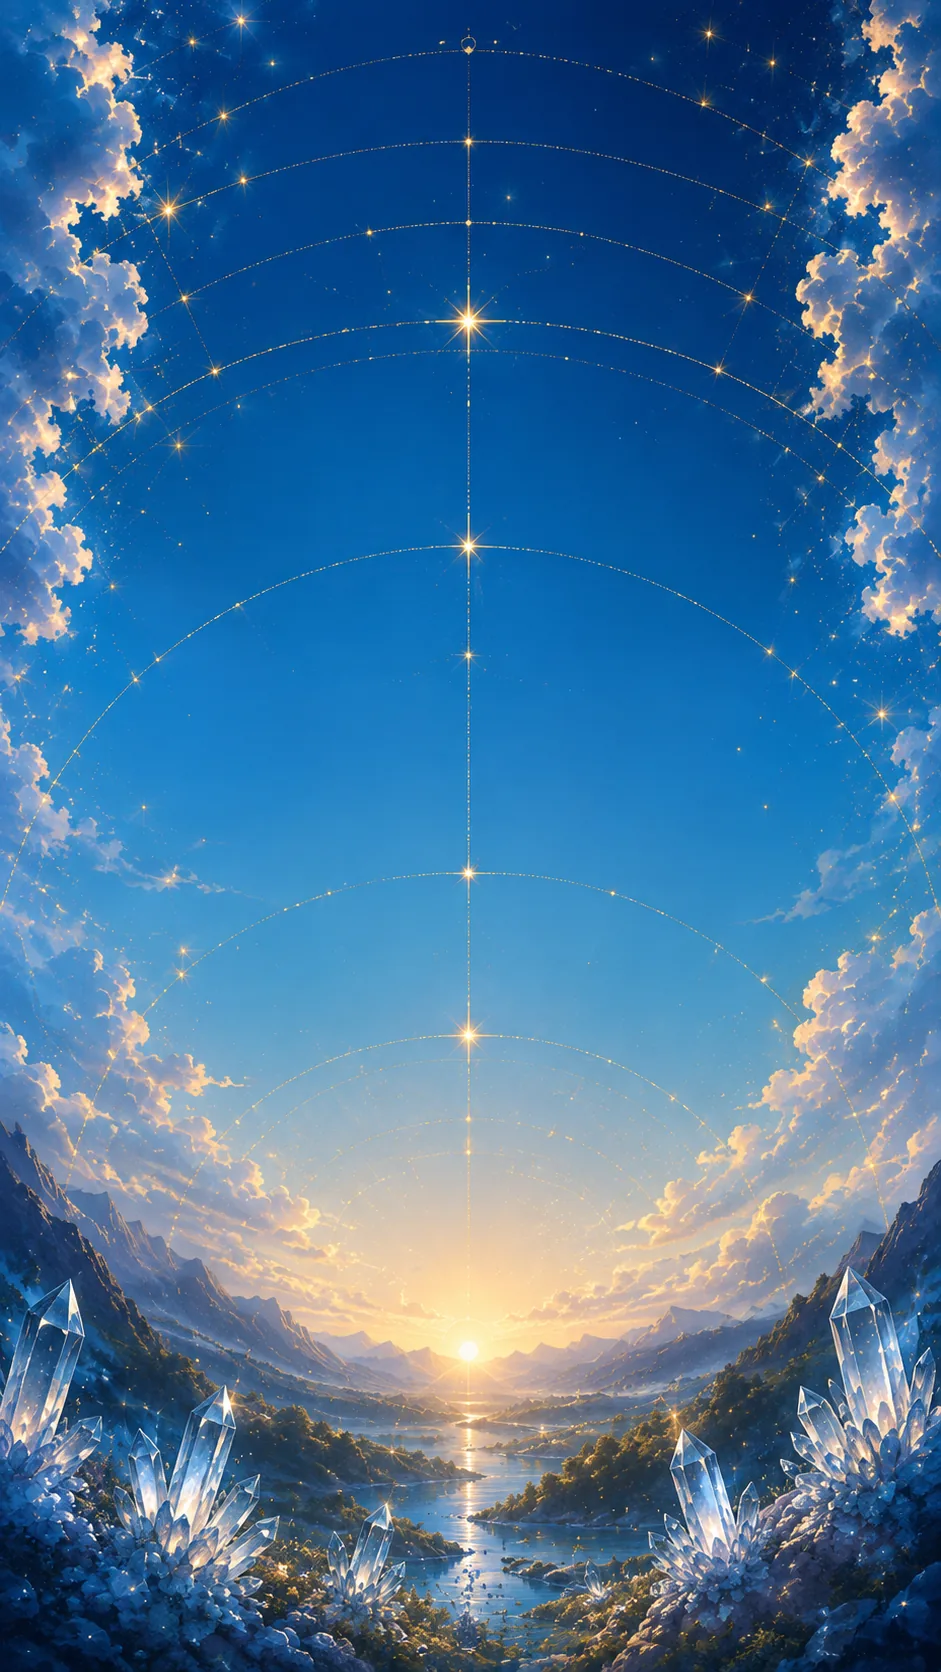
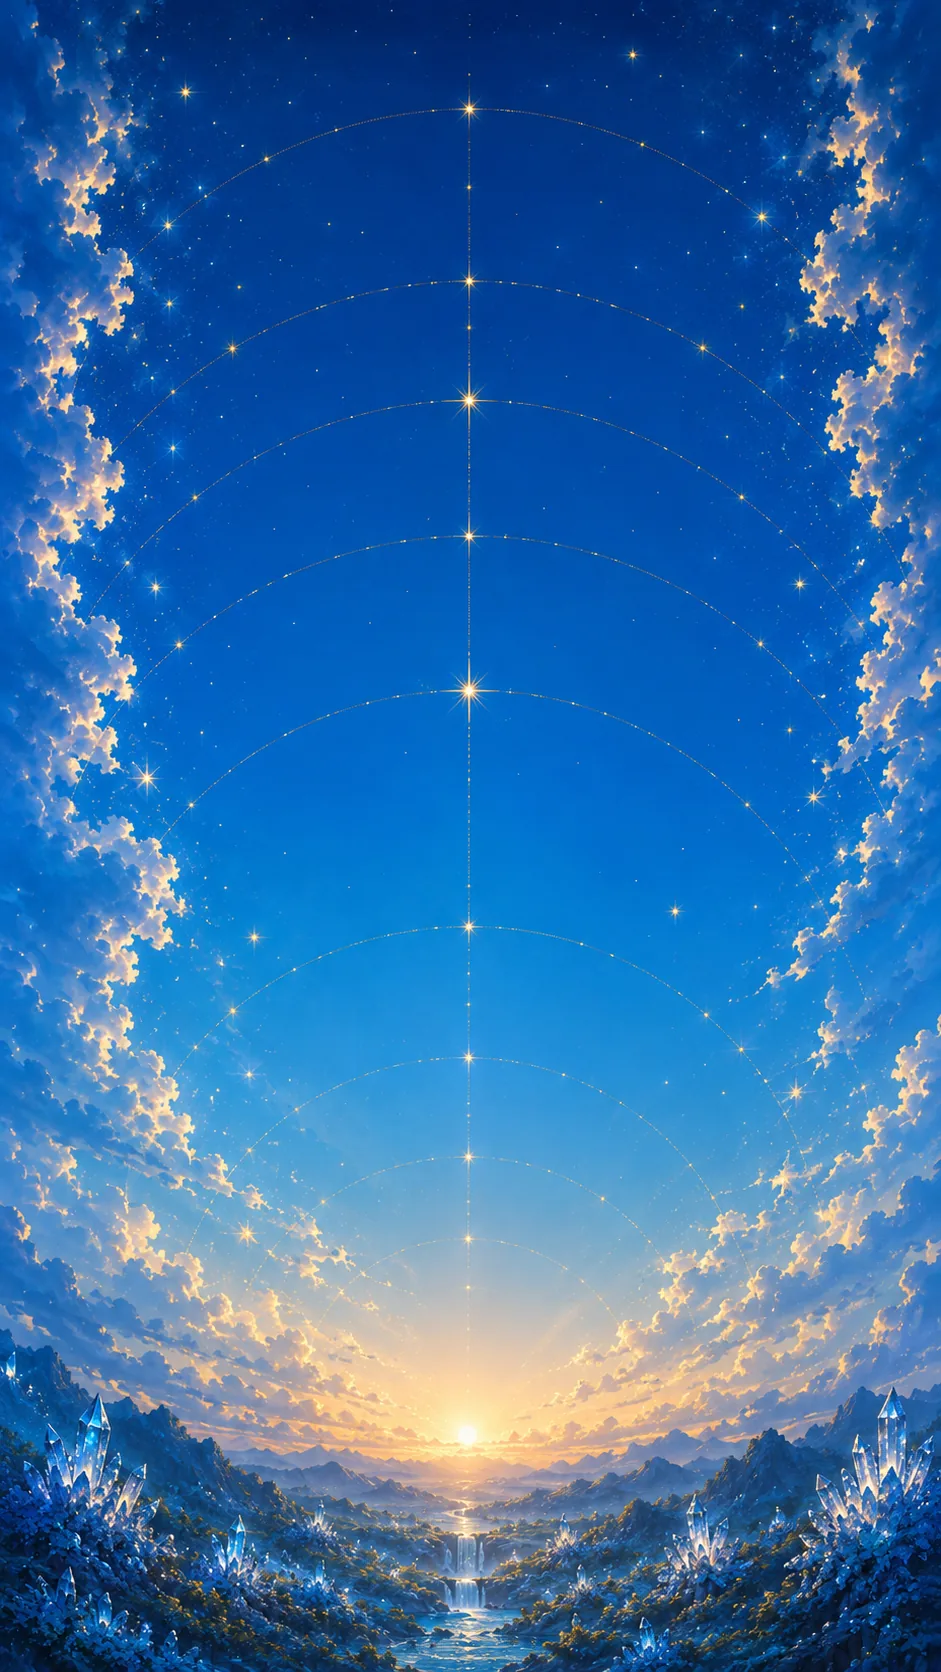
Denní pozadí: finální obraz s hvězdným nebem a údolím, v7, SW v39

diff --git a/sw.js b/sw.js
@@ -1,6 +1,6 @@
 /* Kairos – service worker. Při každé změně index.html zvedni číslo verze. */
-const CACHE = 'kairos-v38';
-const SHELL = ['./', './index.html', './astronomy.browser.min.js', './manifest.webmanifest', './logo.png', './icon-192.png', './icon-512.png', './icon-maskable-512.png', './sky-day.webp?v=6', './sky-night.webp?v=2'];
+const CACHE = 'kairos-v39';
+const SHELL = ['./', './index.html', './astronomy.browser.min.js', './manifest.webmanifest', './logo.png', './icon-192.png', './icon-512.png', './icon-maskable-512.png', './sky-day.webp?v=7', './sky-night.webp?v=2'];
 
 self.addEventListener('install', (e) => {
   e.waitUntil(caches.open(CACHE).then((c) => c.addAll(SHELL.map((u) => new Request(u, { cache: 'reload' })))).then(() => self.skipWaiting()));

diff --git a/index.html b/index.html
@@ -83,7 +83,7 @@ var mt=document.querySelector('meta[name=theme-color]');if(mt)mt.setAttribute('c
   --logo-filter:drop-shadow(0 2px 10px rgba(1,20,50,.55));
   --logo-accent:#9FD0F0;
   --stars:0; --tabs-bg:rgba(233,242,252,.95); --cell-a:1.2;
-  --photo:url('sky-day.webp?v=6'); --photo-h:calc(100vw*1.7769);
+  --photo:url('sky-day.webp?v=7'); --photo-h:calc(100vw*1.7769);
   --tail-1:#B9D4EC; --tail-2:#8FB4DA; --tail-3:#6E93BC; --axis-a:.16; --geo-a:.11; --dust-a:.28;
 }
 /* ---------- STMÍVÁNÍ – rozžhavené mraky nad tmavnoucí modří ---------- */
